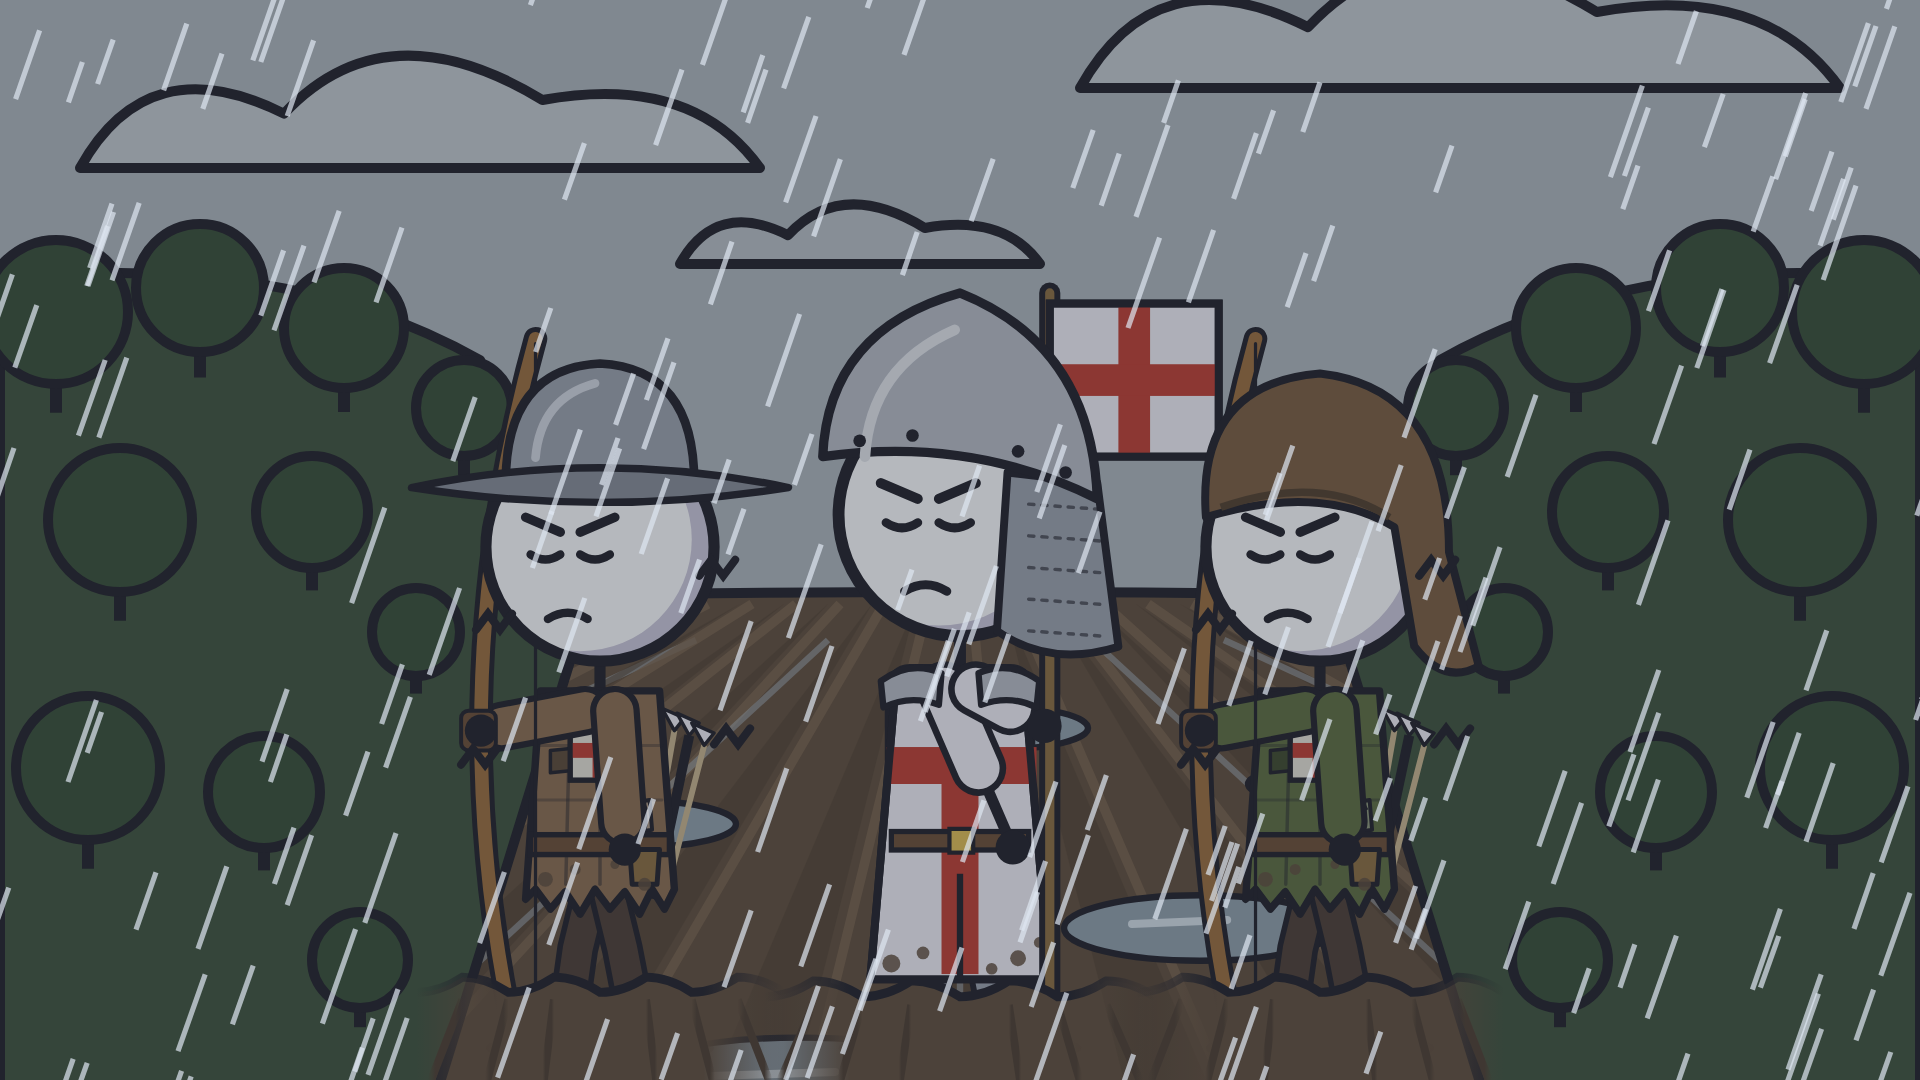
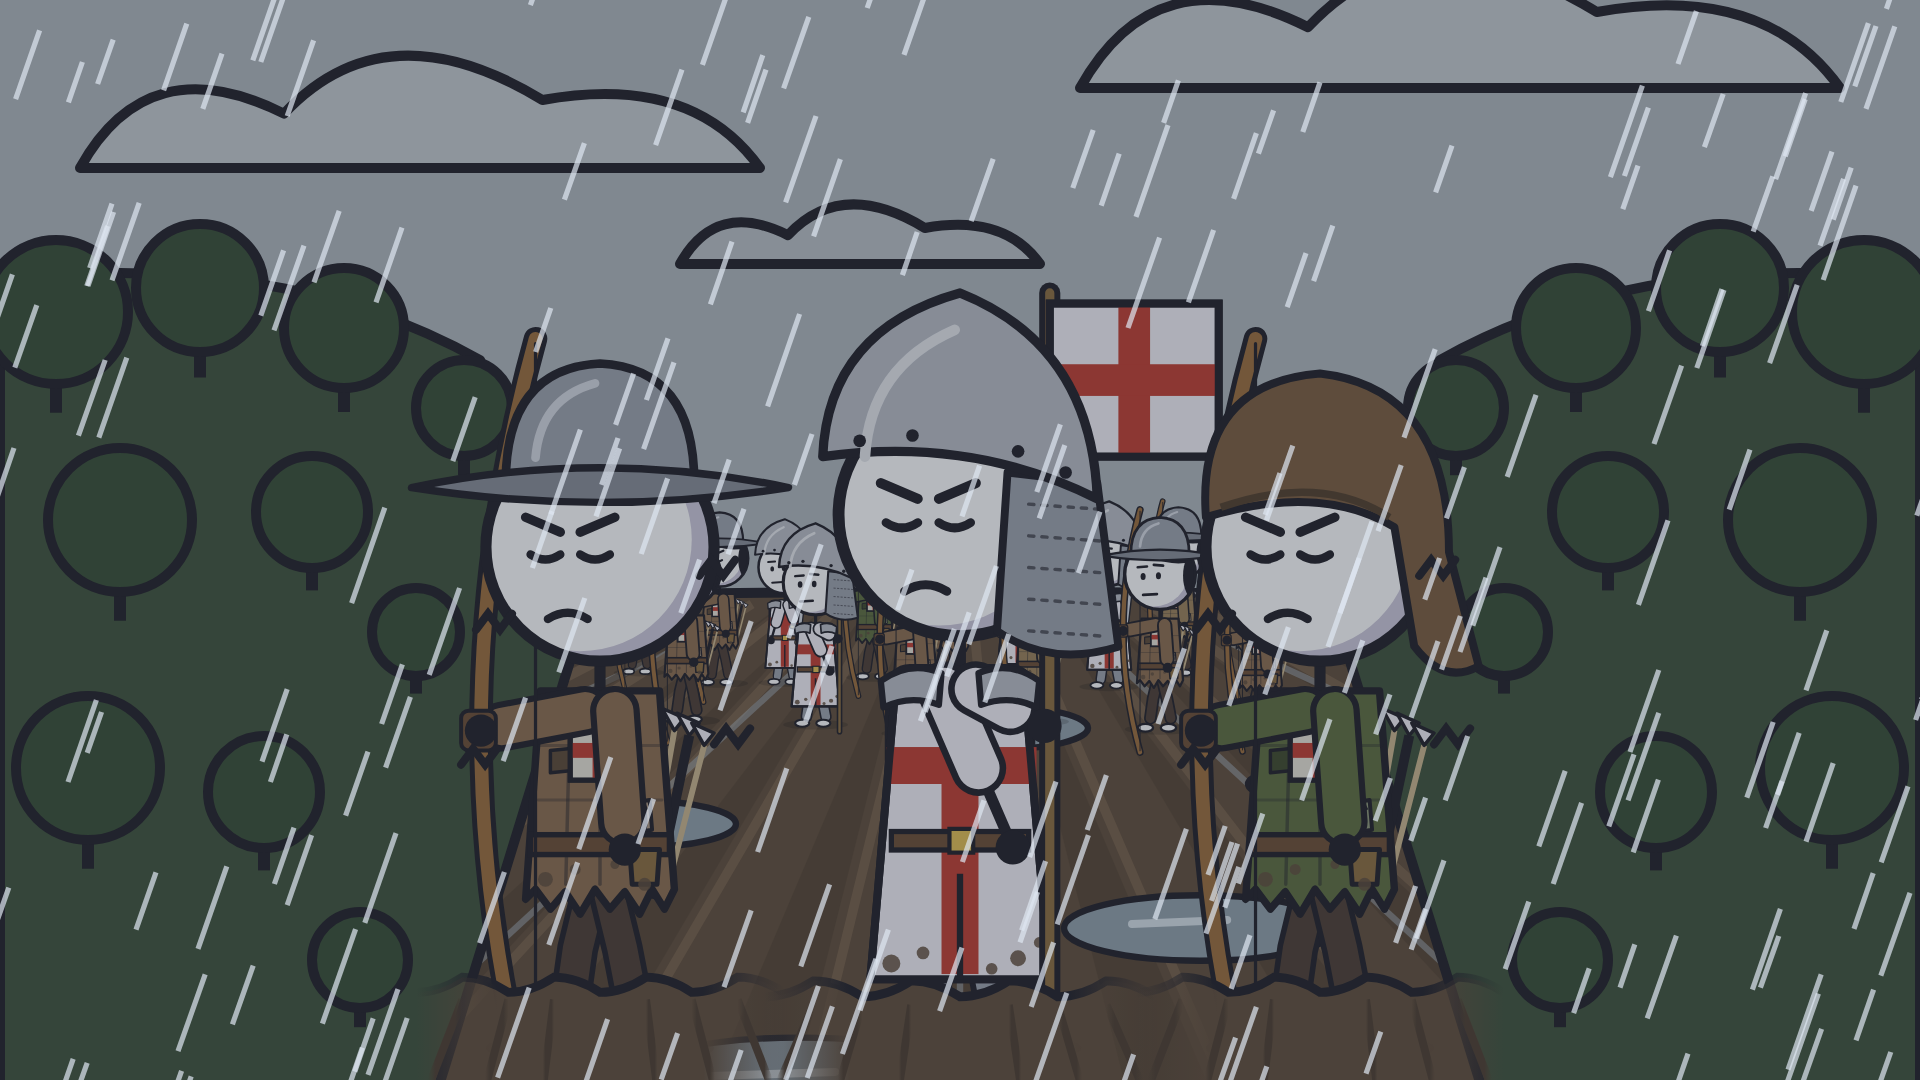
Agincourt: show the difference in army size
- FX crowd: rows of small soldiers (French knights with banners, or English
  archers with a few knights), back rows smaller; FX label for captions
- French crowds behind the front lines in the hook, the march, the first
  sighting, the field, the narrowing corridor, the archers' volley and the
  crush; only a thin English line in the opening shot
- Army-size infographic: a small English block vs a huge French block

Claude-Session: https://claude.ai/code/session_017MZkjKDMev6tKpnRG7nu5t

Changed region(s): [[0.3125, 0.4889, 0.5312, 0.6722], [0.5625, 0.4583, 0.6875, 0.7028]]

diff --git a/episodes/03-agincourt/shots.js b/episodes/03-agincourt/shots.js
@@ -94,11 +94,13 @@ module.exports = {
 
     // Hook
     { section: "Hook", background: "field", rain: true, camera: "slow pan right", text: "Northern France, 1415",
-      note: "Muddy field in the rain. Tired English archers and a knight with a St George banner, heads down.",
+      note: "Muddy field in the rain. Tired English archers and a knight with a St George banner, heads down; only a thin line of men behind them.",
+      fx: [{ type: "crowd", side: "en", x0: 150, x1: 330, rows: 2, gBack: 200, gFront: 212, scBack: 0.15, scFront: 0.18, perRow: 6, seed: 4 }],
       characters: [ch("Archer", { ...C.archer, face: "closed" }, 150, { scale: 0.62, mud: 0.25, shiver: true }), ch("English knight", { ...C.enBanner, face: "closed" }, 240, { scale: 0.66, mud: 0.2 }), ch("Archer", { ...C.archer2, face: "closed" }, 330, { scale: 0.62, mud: 0.25, shiver: true })],
       narration: "October 1415. Northern France. A small English army is trapped. The men are soaked, starving and sick. Many of them haven't had a proper meal in days." },
     { section: "Hook", background: "field", tint: grey, camera: "slow zoom in",
-      note: "A wall of French knights in blue surcoats with fleur-de-lis banners, smug.",
+      note: "A wall of French knights in blue surcoats with fleur-de-lis banners, smug; behind them, rows upon rows of more knights filling the field.",
+      fx: [{ type: "crowd", side: "fr", x0: 120, x1: 360, rows: 6, gBack: 186, gFront: 236, scBack: 0.1, scFront: 0.26, perRow: 12, seed: 7 }],
       characters: [ch("French knight", C.frKnight, 90, { scale: 0.6 }), ch("French knight", C.frBanner, 170, { scale: 0.62 }), ch("French knight", C.frKnight, 250, { scale: 0.64 }), ch("French knight", C.frBanner, 330, { scale: 0.62 }), ch("French knight", C.frKnight, 410, { scale: 0.6 })],
       narration: "In front of them, blocking the road home, is the army of France. Knights in shining armor, some of the finest warriors in Europe. And many, many more of them." },
     { section: "Hook", background: "field", tint: grey, camera: "slow zoom in",
@@ -164,12 +166,14 @@ module.exports = {
       characters: [ch("Archer", { ...C.archer, face: "closed" }, 120, { pose: "walk", shiver: true }), ch("Henry V", { ...C.henry, face: "closed" }, 240, { pose: "walk" }), ch("Archer", { ...C.archer2, face: "closed" }, 360, { pose: "walk", shiver: true })],
       narration: "So the English had to march inland, upstream, searching for a way across. Day after day, in the cold October rain. The eight days of food ran out. Men picked nuts and berries from the hedges to stay alive." },
     { section: "The long march", background: "field", rain: true, camera: "slow zoom out",
-      note: "Rain over the field; far away, small blue figures gathering.",
-      characters: [ch("French knight", C.frBanner, 330, { scale: 0.45, ground: 230 }), ch("French knight", C.frKnight, 380, { scale: 0.45, ground: 230 }), ch("French knight", C.frKnight, 430, { scale: 0.45, ground: 230 }), ch("Archer", { ...C.archer, face: "surprised" }, 120, { flip: true })],
+      note: "Rain over the field; far away, a huge mass of small blue figures gathering.",
+      fx: [{ type: "crowd", side: "fr", x0: 230, x1: 350, rows: 4, gBack: 190, gFront: 214, scBack: 0.08, scFront: 0.15, perRow: 12, seed: 9 }],
+      characters: [ch("Archer", { ...C.archer, face: "surprised" }, 120, { flip: true })],
       narration: "It took them about two and a half weeks. And all the while, the French army was gathering behind the river, growing bigger every day." },
     { section: "The long march", background: "field", tint: grey, camera: "quick push in", text: "Agincourt, 24 October",
-      note: "Henry and his knight see the French army blocking the road.",
-      characters: [ch("Henry V", { ...C.henry, face: "surprised" }, 130, { flip: true }), ch("French knight", C.frBanner, 330, { scale: 0.6 }), ch("French knight", C.frKnight, 400, { scale: 0.6 })],
+      note: "Henry, surprised, sees a vast French army filling the road ahead.",
+      fx: [{ type: "crowd", side: "fr", x0: 220, x1: 360, rows: 6, gBack: 188, gFront: 262, scBack: 0.1, scFront: 0.34, perRow: 8, seed: 12 }],
+      characters: [ch("Henry V", { ...C.henry, face: "surprised" }, 120, { flip: true })],
       narration: "On the twenty-fourth of October, near a village called Agincourt, they finally saw them. The French army was right in front of them, blocking the road to Calais." },
 
     // The night before
@@ -183,8 +187,12 @@ module.exports = {
       characters: [ch("French knight", { ...C.frKnight, prop: "none", face: "smug" }, 160, { flip: true, pose: "sit", ground: 300 }), ch("French knight", { ...C.frKnight, prop: "none", face: "gentle" }, 330, { pose: "sit", ground: 300 })],
       narration: "On the other side, according to some chroniclers, the French camp was noisy and confident. Some knights were said to be playing dice for the rich English prisoners they expected to capture the next day." },
     { section: "The night before", background: "parchment", camera: "static", text: "Outnumbered 3 or 4 to 1?",
-      note: "Left: a few English soldiers. Right: many French knights.",
-      characters: [ch("Archer", C.archer, 60, { scale: 0.45, flip: true }), ch("English knight", C.enKnight, 110, { scale: 0.45, flip: true }), ch("French knight", C.frKnight, 230, { scale: 0.45 }), ch("French knight", C.frBanner, 280, { scale: 0.45 }), ch("French knight", C.frKnight, 330, { scale: 0.45 }), ch("French knight", C.frKnight, 380, { scale: 0.45 }), ch("French knight", C.frBanner, 430, { scale: 0.45 })],
+      note: "Parchment infographic: a small block of English soldiers on the left, a huge block of French knights on the right, labelled.",
+      fx: [{ type: "crowd", side: "en", x0: 34, x1: 150, rows: 2, gBack: 262, gFront: 286, scBack: 0.24, scFront: 0.28, perRow: 4, flip: true, seed: 2 },
+           { type: "crowd", side: "fr", x0: 200, x1: 466, rows: 5, gBack: 214, gFront: 286, scBack: 0.18, scFront: 0.28, perRow: 9, seed: 5, banners: 0.15 },
+           { type: "label", x: 92, y: 168, text: "ENGLAND", size: 18, color: "#f4f2f7" }, { type: "label", x: 92, y: 186, text: "6,000–9,000", size: 13, color: "#f4f2f7" },
+           { type: "label", x: 333, y: 128, text: "FRANCE", size: 22, color: "#e2bd4f" }, { type: "label", x: 333, y: 148, text: "3–4× as many?", size: 14, color: "#e2bd4f" }],
+      characters: [],
       narration: "How big were the armies? Henry had perhaps six to nine thousand men, and most of them, maybe five out of every six, were archers. The French are often said to have had three or four times as many. Some modern historians think the gap was smaller. But everyone agrees: the English were badly outnumbered, and in far worse shape." },
 
     // The longbow
@@ -210,11 +218,12 @@ module.exports = {
     // The field
     { section: "The field", background: "field", camera: "slow zoom out", text: "25 October 1415, St Crispin's Day",
       note: "Wide shot: deep, wet furrows between two woods squeezing the field; English stakes in the foreground, French far away.",
-      fx: [{ type: "stakes", x0: 150, x1: 330, y: 306, dir: -1, front: true }],
-      characters: [ch("French knight", C.frBanner, 220, { scale: 0.32, ground: 200 }), ch("French knight", C.frKnight, 245, { scale: 0.32, ground: 200 }), ch("French knight", C.frKnight, 270, { scale: 0.32, ground: 200 })],
+      fx: [{ type: "crowd", side: "fr", x0: 160, x1: 320, rows: 4, gBack: 188, gFront: 204, scBack: 0.07, scFront: 0.11, perRow: 16, seed: 21 }, { type: "stakes", x0: 150, x1: 330, y: 306, dir: -1, front: true }],
+      characters: [],
       narration: "The morning of the twenty-fifth of October. Saint Crispin's Day. The battlefield was a freshly ploughed field between two woods. After a night of rain, it had turned into deep, sticky mud." },
     { section: "The field", background: "field", camera: "slow zoom in",
-      note: "French knights bunched together in the narrow middle of the field.",
+      note: "French knights crammed into the narrow middle of the field, rows and rows deep.",
+      fx: [{ type: "crowd", side: "fr", x0: 160, x1: 320, rows: 5, gBack: 190, gFront: 238, scBack: 0.1, scFront: 0.24, perRow: 10, seed: 31 }],
       characters: [ch("French knight", C.frKnight, 175, { scale: 0.52 }), ch("French knight", C.frKnight, 205, { scale: 0.55, ground: 300 }), ch("French knight", C.frBanner, 240, { scale: 0.58 }), ch("French knight", C.frKnight, 275, { scale: 0.55, ground: 300 }), ch("French knight", C.frKnight, 305, { scale: 0.52 })],
       narration: "The woods on both sides squeezed the field narrower. Whatever the French did, they couldn't spread out and surround Henry's small army. They would have to come straight at him." },
     { section: "The field", background: "field", camera: "static", pause: 1.5,
@@ -227,8 +236,8 @@ module.exports = {
       narration: "So Henry made a bold move. He ordered his whole army to pull up their stakes and walk forward, toward the enemy, until the French were within bow range. Then the archers hammered their stakes back into the mud." },
     { section: "The field", background: "field", camera: "shake", text: "Loose!",
       note: "Archers behind their stakes shooting; the sky fills with arrows; a dark shadow falls on the French side.",
-      fx: [{ type: "arrowstorm", x0: 160, x1: 480, y0: 36, y1: 160, dir: 1, n: 140, shadowX0: 320, shadowX1: 480 }, { type: "stakes", x0: 60, x1: 250, y: 302, dir: 1, front: true }],
-      characters: [ch("Archer", { ...C.archer, prop: "bowdraw", face: "angry" }, 110, { flip: true, scale: 0.7, mud: 0.15 }), ch("Archer", { ...C.archer2, prop: "bowdraw", face: "angry" }, 220, { flip: true, scale: 0.7, mud: 0.15 }), ch("French knight", { ...C.frKnight, face: "surprised" }, 420, { scale: 0.5, mud: 0.3 })],
+      fx: [{ type: "crowd", side: "fr", x0: 300, x1: 470, rows: 5, gBack: 196, gFront: 262, scBack: 0.1, scFront: 0.3, perRow: 7, seed: 41 }, { type: "arrowstorm", x0: 160, x1: 480, y0: 36, y1: 160, dir: 1, n: 140, shadowX0: 300, shadowX1: 480 }, { type: "stakes", x0: 60, x1: 250, y: 302, dir: 1, front: true }],
+      characters: [ch("Archer", { ...C.archer, prop: "bowdraw", face: "angry" }, 110, { flip: true, scale: 0.7, mud: 0.15 }), ch("Archer", { ...C.archer2, prop: "bowdraw", face: "angry" }, 220, { flip: true, scale: 0.7, mud: 0.15 }), ],
       narration: "And the archers began to shoot." },
 
     // Into the mud
@@ -248,8 +257,8 @@ module.exports = {
       characters: [ch("French knight", { ...C.frKnight, face: "closed" }, 170, { pose: "walk", mud: 0.75, ground: 282 }), ch("French knight", { ...C.frBanner, face: "surprised" }, 310, { pose: "walk", mud: 0.7, ground: 282, shiver: true })],
       narration: "Now the main French army walked forward. Thousands of men in heavy steel armor, trudging through deep mud while arrows rained down on them. By the time they reached the English line, many of them were already exhausted." },
     { section: "Into the mud", background: "field", camera: "shake",
-      note: "French knights packed shoulder to shoulder in the mud; one has fallen face down in front of them, splash.",
-      fx: [{ type: "splash", x: 100, y: 286, k: 1.2, front: true }],
+      note: "French knights packed shoulder to shoulder in the mud, more rows pressing from behind; one has fallen face down in front, splash.",
+      fx: [{ type: "crowd", side: "fr", x0: 170, x1: 350, rows: 4, gBack: 196, gFront: 236, scBack: 0.12, scFront: 0.26, perRow: 9, seed: 51 }, { type: "splash", x: 100, y: 286, k: 1.2, front: true }],
       characters: [ch("French knight", { ...C.frKnight, face: "surprised" }, 210, { scale: 0.7, mud: 0.55, ground: 282 }), ch("French knight", { ...C.frBanner, face: "angry" }, 260, { scale: 0.72, mud: 0.55, ground: 282 }), ch("French knight", { ...C.frKnight, face: "surprised" }, 310, { scale: 0.7, mud: 0.55, ground: 282 }), ch("Fallen knight", { ...C.frKnight, face: "closed", prop: "none" }, 190, { scale: 0.55, ground: 292, rot: -84, mud: 0.35 })],
       narration: "And the field kept narrowing. The French were packed so tightly that many couldn't even raise their weapons. Men who slipped in the mud struggled to get back up." },
     { section: "Into the mud", background: "field", camera: "shake",

diff --git a/index.html b/index.html
@@ -440,6 +440,19 @@ const FX={
   // small campfire; dying = embers and a thin wisp of smoke
   campfire:({x=240,y=292,dying=false})=>dying?`<circle cx="${x}" cy="${y-4}" r="22" fill="#f29a3a" opacity=".1"/><path d="M${x-14},${y} L${x+14},${y-4} M${x-12},${y-5} L${x+12},${y}" stroke="#4a3a2e" stroke-width="5" stroke-linecap="round"/>`+[[-6,-6],[2,-7],[7,-4]].map(([dx,dy])=>`<circle cx="${x+dx}" cy="${y+dy}" r="2" fill="#f29a3a"/>`).join("")+`<path d="M${x},${y-10} q-6,-12 2,-22 q8,-10 0,-22" fill="none" stroke="#b8b4c4" stroke-width="2.4" opacity=".55"/>`
     :`<circle cx="${x}" cy="${y-14}" r="40" fill="#f29a3a" opacity=".16"/><path d="M${x-14},${y} L${x+14},${y-4} M${x-12},${y-5} L${x+12},${y}" stroke="#6b4a2e" stroke-width="5" stroke-linecap="round"/><path d="M${x},${y-34} Q${x-12},${y-18} ${x-6},${y-4} L${x+6},${y-4} Q${x+12},${y-18} ${x},${y-34}Z" fill="#f29a3a" ${st}/><path d="M${x},${y-22} Q${x-5},${y-12} ${x-2},${y-4} L${x+2},${y-4} Q${x+5},${y-12} ${x},${y-22}Z" fill="#f5d95a"/>`,
+  // a crowd of small soldiers in rows (back rows smaller), to show army size at a glance.
+  // side "fr" = French knights with some fleur-de-lis banners; "en" = English archers with a few St George knights
+  crowd:({side="fr",x0=260,x1=470,rows=4,gBack=200,gFront=260,scBack=.16,scFront=.32,perRow=9,flip=false,seed=3,banners=.2})=>{
+    const r=rng(seed),pick=a=>a[Math.floor(r()*a.length)];let s="";
+    for(let k=0;k<rows;k++){const t=rows>1?k/(rows-1):1,g=gBack+(gFront-gBack)*t,sc0=scBack+(scFront-scBack)*t,n=Math.max(1,Math.round(perRow*(1+.45*(1-t))));
+      for(let i=0;i<n;i++){const sc=sc0*(.92+r()*.16),x=x0+(i+.5+(k%2?.35:0))*(x1-x0)/(n+.35)+(r()-.5)*5,gg=g+(r()-.5)*4;
+        const cfg=side==="fr"?{hair:"none",hat:"bascinet",face:pick(["smug","smug","neutral","determined"]),outfit:"knight_fr",color:"#2f4f9f",prop:r()<banners?"fleur":"sword",pose:"stand",flip}
+          :(r()<.2?{hair:"none",hat:"bascinet",face:pick(["determined","neutral"]),outfit:"knight_en",color:"#f4f2f7",prop:r()<banners?"stgeorge":"sword",pose:"stand",flip}
+                  :{hair:"short",hat:pick(["kettle","hood","none"]),face:pick(["closed","neutral","determined"]),outfit:"archer",color:pick(["#8a6a4a","#5b6b3a","#9a7f55"]),prop:"longbow",pose:"stand",flip});
+        s+=`<g transform="translate(${(x-100*sc).toFixed(1)} ${(gg-272*sc).toFixed(1)}) scale(${sc.toFixed(3)})">${character(cfg)}</g>`}}
+    return s},
+  // bold caption drawn into the frame (for infographic labels)
+  label:({x=240,y=60,text="",size=18,color="#fff",anchor="middle"})=>`<text x="${x}" y="${y}" font-family="Inter, DejaVu Sans, sans-serif" font-weight="900" font-size="${size}" text-anchor="${anchor}" fill="${color}" stroke="${INK}" stroke-width="${size/4}" paint-order="stroke" stroke-linejoin="round">${text}</text>`,
   // mud splashes around a point
   splash:({x=240,y=292,k=1})=>[[-18,-14,3],[-10,-24,2.4],[0,-28,2],[12,-20,2.6],[20,-10,3],[-24,-4,2]].map(([dx,dy,r])=>`<circle cx="${x+dx*k}" cy="${y+dy*k}" r="${r*k}" fill="#5e4a36" stroke="${INK}" stroke-width="1"/>`).join("")
 };

diff --git a/scripts/03-agincourt.md b/scripts/03-agincourt.md
@@ -72,11 +72,11 @@ SON: Knights? Okay, now I'm interested.
 
 ### 0:40 – Hook
 
-[SCENE 7: Muddy field in the rain. Tired English archers and a knight with a St George banner, heads down. On screen: Northern France, 1415]
+[SCENE 7: Muddy field in the rain. Tired English archers and a knight with a St George banner, heads down; only a thin line of men behind them. On screen: Northern France, 1415]
 
 October 1415. Northern France. A small English army is trapped. The men are soaked, starving and sick. Many of them haven't had a proper meal in days.
 
-[SCENE 8: A wall of French knights in blue surcoats with fleur-de-lis banners, smug.]
+[SCENE 8: A wall of French knights in blue surcoats with fleur-de-lis banners, smug; behind them, rows upon rows of more knights filling the field.]
 
 In front of them, blocking the road home, is the army of France. Knights in shining armor, some of the finest warriors in Europe. And many, many more of them.
 
@@ -142,11 +142,11 @@ Then they reached the River Somme. Every bridge and every crossing was broken or
 
 So the English had to march inland, upstream, searching for a way across. Day after day, in the cold October rain. The eight days of food ran out. Men picked nuts and berries from the hedges to stay alive.
 
-[SCENE 23: Rain over the field; far away, small blue figures gathering.]
+[SCENE 23: Rain over the field; far away, a huge mass of small blue figures gathering.]
 
 It took them about two and a half weeks. And all the while, the French army was gathering behind the river, growing bigger every day.
 
-[SCENE 24: Henry and his knight see the French army blocking the road. On screen: Agincourt, 24 October]
+[SCENE 24: Henry, surprised, sees a vast French army filling the road ahead. On screen: Agincourt, 24 October]
 
 On the twenty-fourth of October, near a village called Agincourt, they finally saw them. The French army was right in front of them, blocking the road to Calais.
 
@@ -160,7 +160,7 @@ That night, it poured. The English camped in the open: wet, cold and hungry. Hen
 
 On the other side, according to some chroniclers, the French camp was noisy and confident. Some knights were said to be playing dice for the rich English prisoners they expected to capture the next day.
 
-[SCENE 27: Left: a few English soldiers. Right: many French knights. On screen: Outnumbered 3 or 4 to 1?]
+[SCENE 27: Parchment infographic: a small block of English soldiers on the left, a huge block of French knights on the right, labelled. On screen: Outnumbered 3 or 4 to 1?]
 
 How big were the armies? Henry had perhaps six to nine thousand men, and most of them, maybe five out of every six, were archers. The French are often said to have had three or four times as many. Some modern historians think the gap was smaller. But everyone agrees: the English were badly outnumbered, and in far worse shape.
 
@@ -188,7 +188,7 @@ Each archer also carried a long wooden stake, sharpened at both ends. Hammered i
 
 The morning of the twenty-fifth of October. Saint Crispin's Day. The battlefield was a freshly ploughed field between two woods. After a night of rain, it had turned into deep, sticky mud.
 
-[SCENE 33: French knights bunched together in the narrow middle of the field.]
+[SCENE 33: French knights crammed into the narrow middle of the field, rows and rows deep.]
 
 The woods on both sides squeezed the field narrower. Whatever the French did, they couldn't spread out and surround Henry's small army. They would have to come straight at him.
 
@@ -218,7 +218,7 @@ Panicking horses turned and galloped back, straight into their own soldiers who 
 
 Now the main French army walked forward. Thousands of men in heavy steel armor, trudging through deep mud while arrows rained down on them. By the time they reached the English line, many of them were already exhausted.
 
-[SCENE 40: French knights packed shoulder to shoulder in the mud; one has fallen face down in front of them, splash.]
+[SCENE 40: French knights packed shoulder to shoulder in the mud, more rows pressing from behind; one has fallen face down in front, splash.]
 
 And the field kept narrowing. The French were packed so tightly that many couldn't even raise their weapons. Men who slipped in the mud struggled to get back up.
 

diff --git a/CLAUDE.md b/CLAUDE.md
@@ -19,7 +19,7 @@ From episode 2 on, the father can mention the channel name in the outro.
   English archers look ragged and muddy, French knights shiny. Henry V has `scar: true` (Shrewsbury
   arrow, 1403). Scenes: `field`, `hall`, `siege`, `river`, `camp`, `parchment` (use it instead of
   `paper` for infographics). Effects: `shot.fx` (`stakes`, `arrowstorm`, `groundarrows`, `campfire`,
-  `splash`) and per character `mud` (0..1), `shiver`, `rot` (-84 = fallen face down). Owner chose the original wide-shot style
+  `splash`, `crowd` for army size, `label` for infographic captions) and per character `mud` (0..1), `shiver`, `rot` (-84 = fallen face down). Owner chose the original wide-shot style
   (not the close-up test in `episodes/03-agincourt/style-test-closeup.png`).
 - Narration voice: calm documentary narrator, light dry humor, serious at sad moments.
 - Framing (since episode 1 revision): a modern-day father tells the story to his 16-year-old
